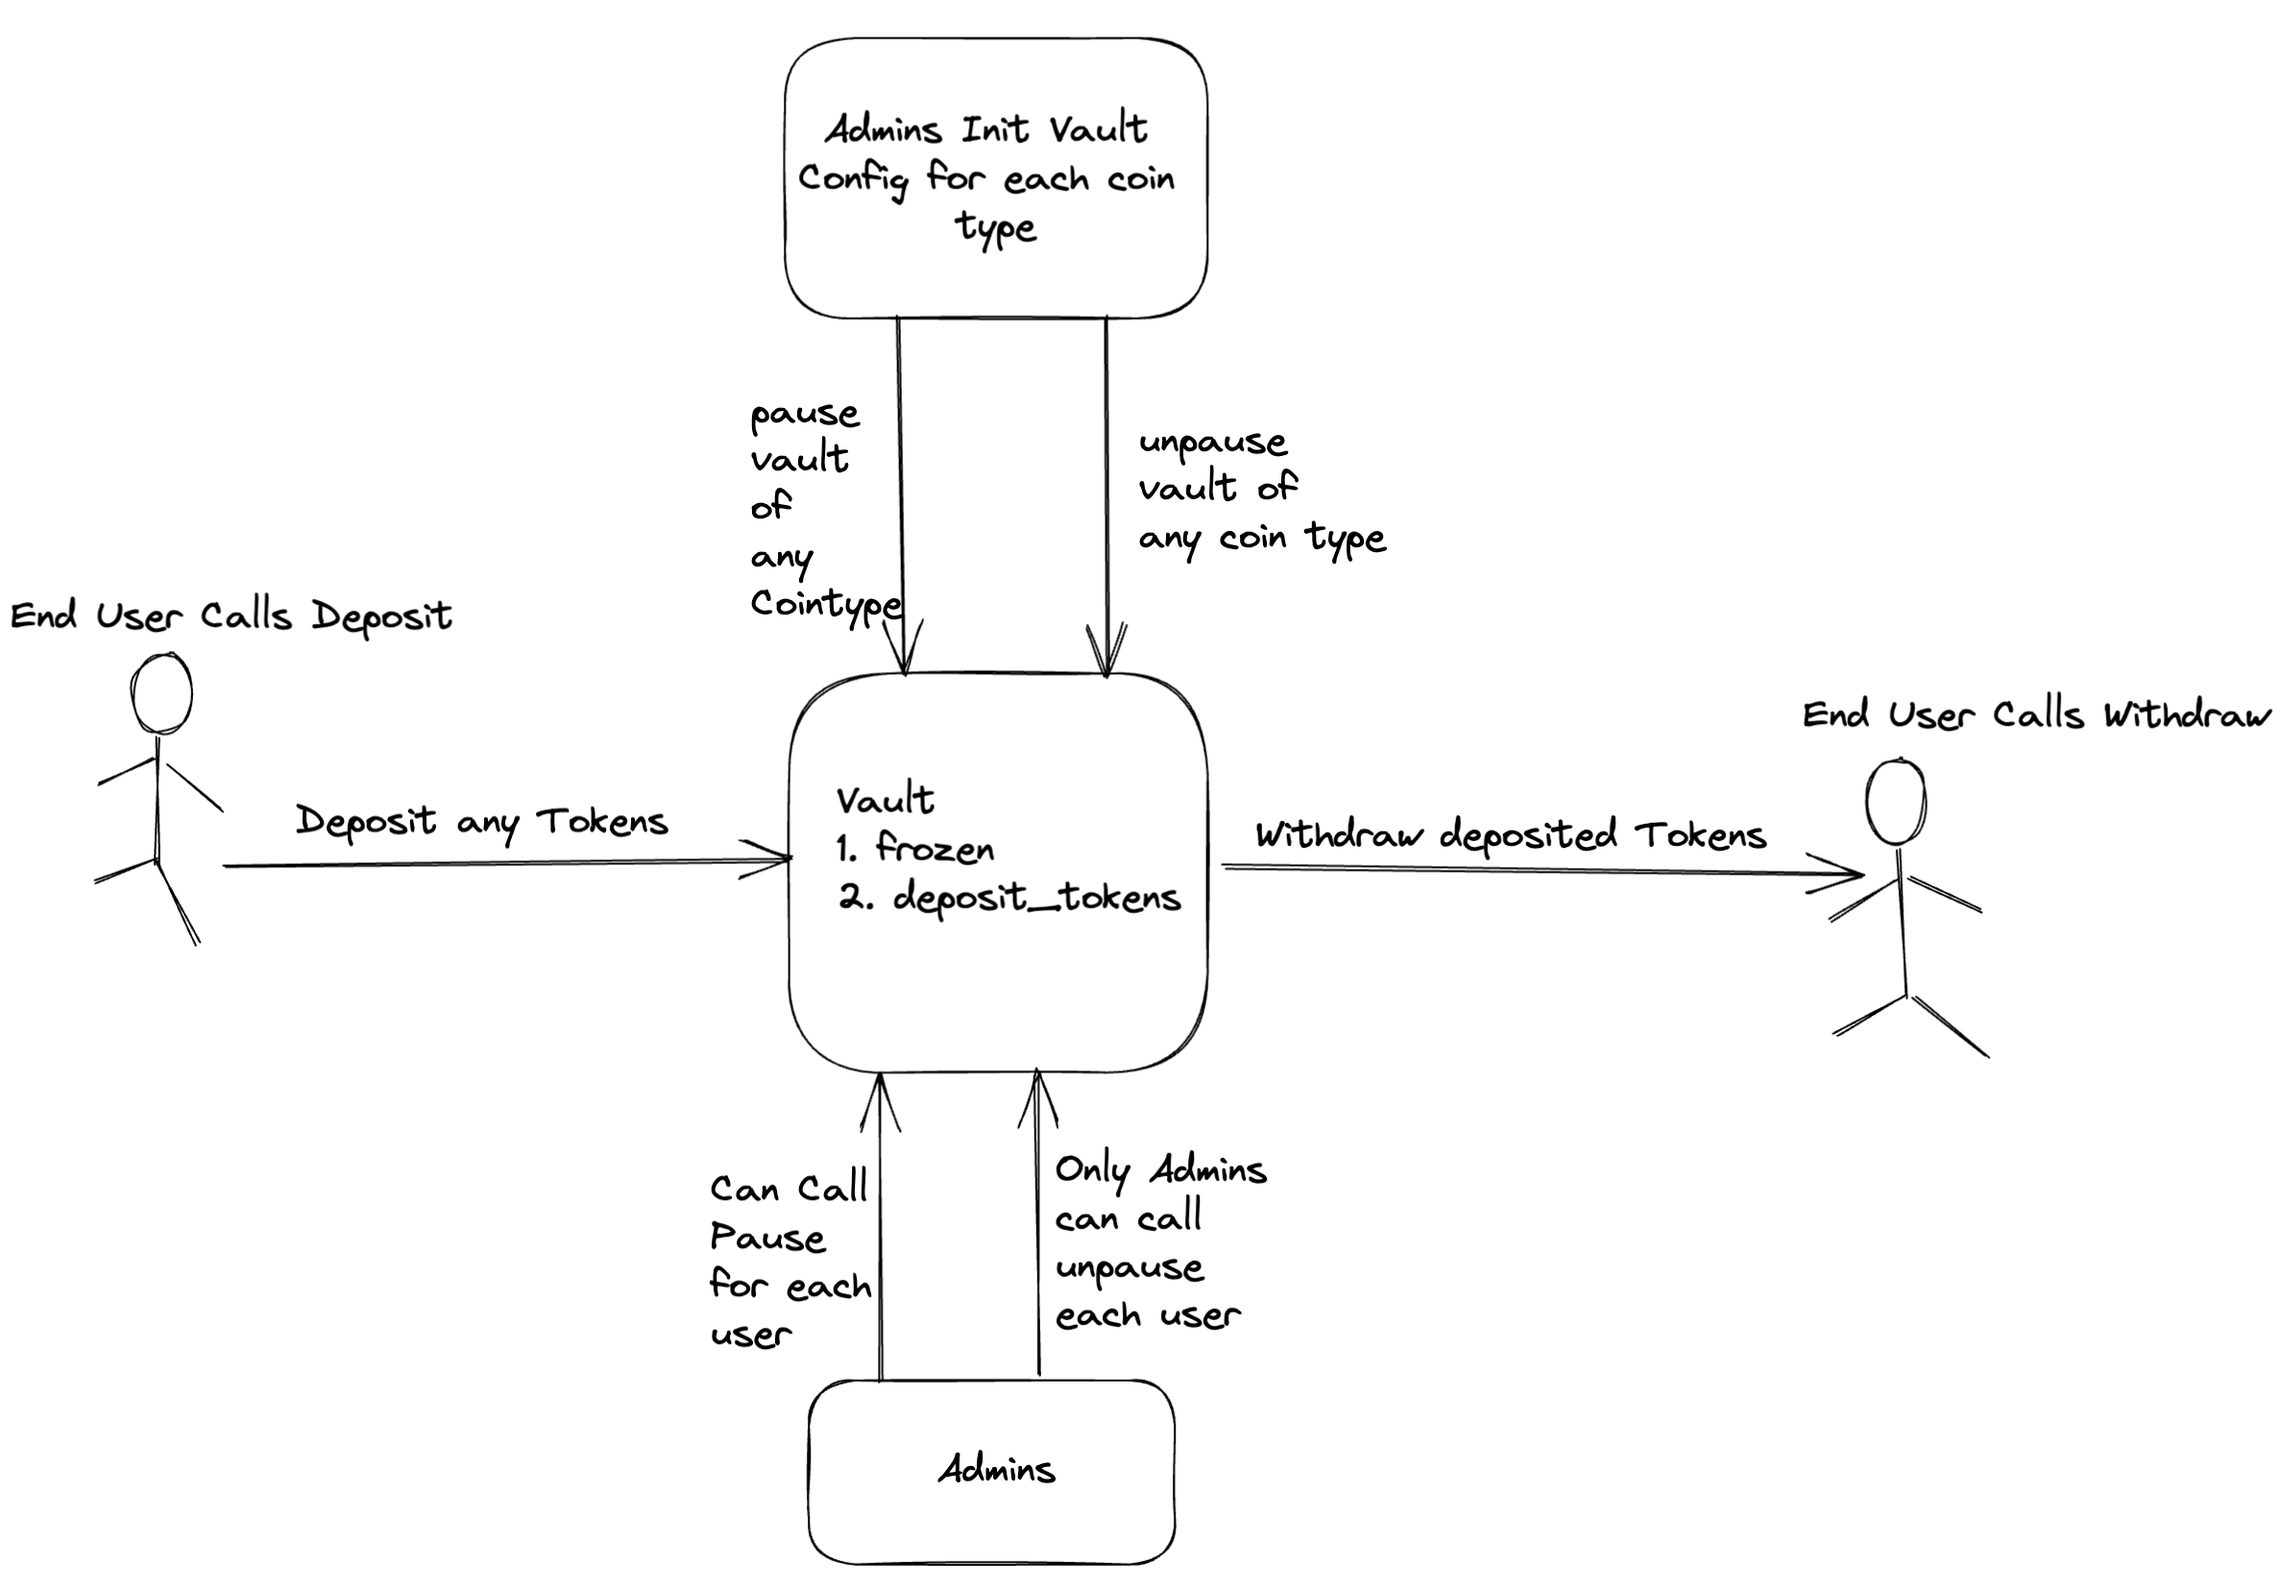
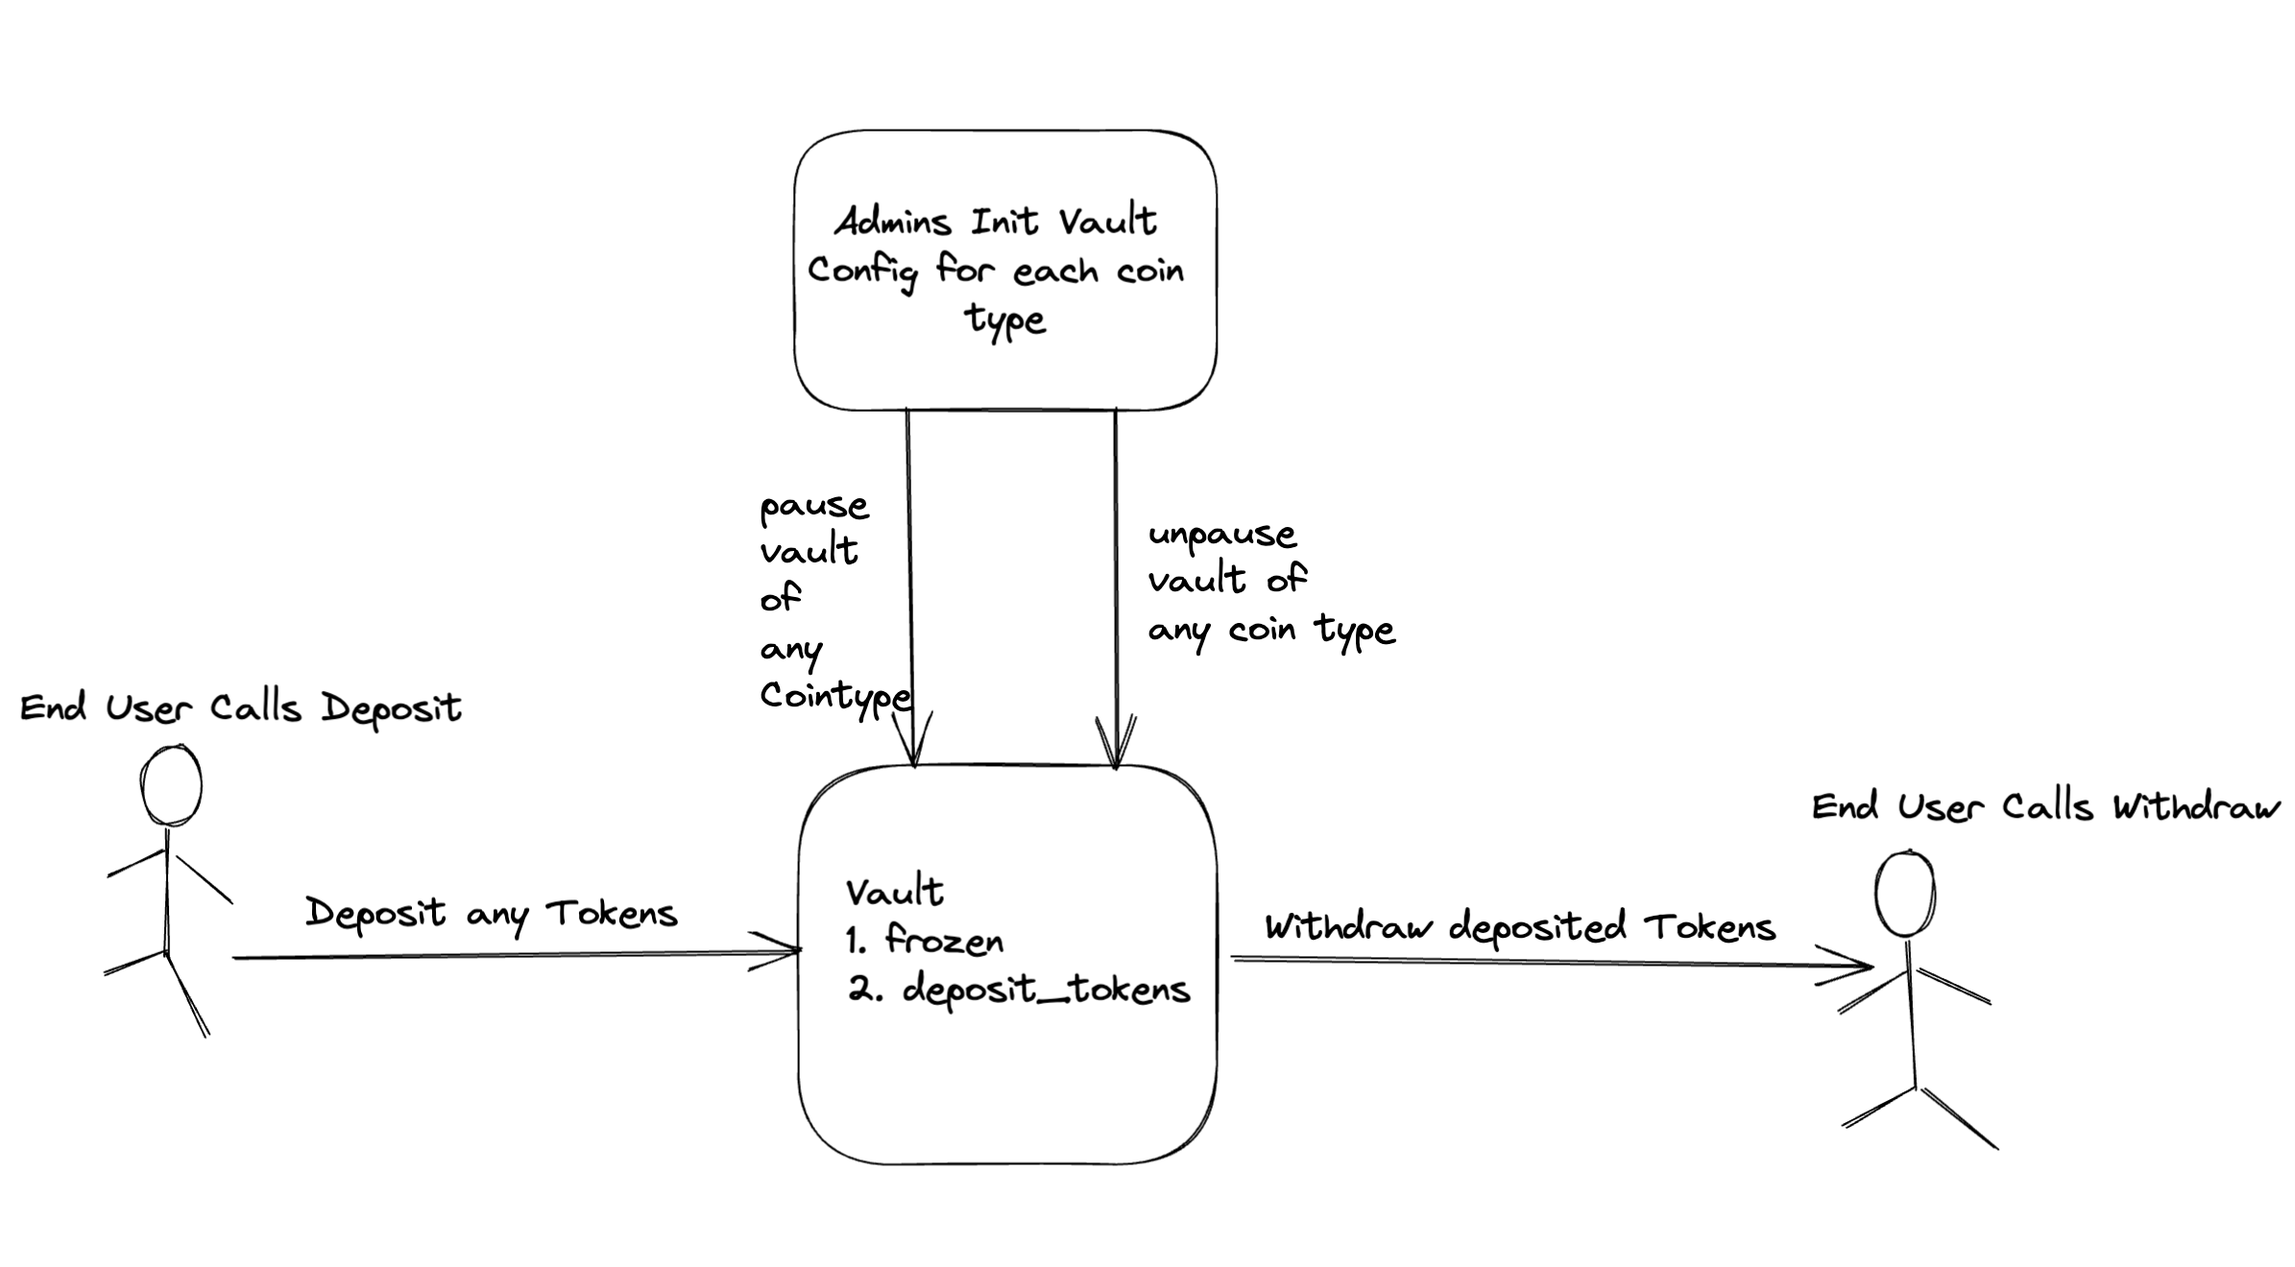
:zap: update readme, remove frozen, withdraw update

diff --git a/README.md b/README.md
@@ -20,7 +20,7 @@ Your can add in module dependency as shown below
     rev = 'develop'
 ```
 
-With that you should be able to access the module instructions in your code.
+With that, you should be able to access the module instructions in your code.
 
 
 ## How to deploy vault module? 
@@ -38,7 +38,7 @@ With that you should be able to access the module instructions in your code.
 ```
 
 
-4. First check if you `.aptos` folder in the module. If not, run the following to instantiate in the module folder an account. 
+4. First check if you `.aptos` folder in the module. If not, run the following to instantiate an account in the module folder . 
 ```bash
     aptos init
 ```
@@ -58,7 +58,7 @@ With that you should be able to access the module instructions in your code.
 ```bash
     aptos move test && aptos move compile
 ```
-9. Fund your aptos wallet account by running the following command
+9. (Optional)Fund your aptos wallet account by running the following command
 ```bash
     aptos account fund-with-faucet --account 0x65a78e4b038409443bdcee8af4d3fdc886e8bb8418c4c83f4a09291d2e06a498
 ```
@@ -113,7 +113,7 @@ We define another struct `VaultConfig` for pausing/unpausing vault for depositin
     }
 ```
 
-If the field `frozen` is set to `true`, then the depositing/withdrawls are  paused for a Vault of CoinType
+If the field `frozen` is set to `true`, then the depositing/withdrawals are  paused for a Vault of CoinType
 
 
 ### Instructions
@@ -197,50 +197,6 @@ This is used by admins to unpause a vault of `CoinType`.
 ```
 
 It accepts these params `signer` (admin) who wants pause an 
-
-
-#### Additional Instructions
-
-In addition to the above, mentioned instructions, admins can pause/unpause deposition or withdrawals to a  `Vault` for each accounts.
-
-
-#### Pause the vault for an account
-
-Only admins can pause deposits/withdrawals of coins for an account
-
-The below instruction is used to pause deposit/withdaw coins for an account
-
-```rust
-    /// public function to pause the vaults deposit/ withdraw
-    /// Should pass the account to be paused
-    public entry fun pause_vault<CoinType>(sender : &signer,pause_account : address) acquires Vault{
-        pause_vault_<CoinType>(sender, pause_account);
-    } 
-```
-
-It accepts these params
-
-1. `signer` (admin) who wants pause an 
-2. `pause_account` address to be paused. 
-
-
-#### Unpause the vault for an account
-
-This is used by admins to unpause a vault for an account for a `CoinType`. 
-
-```rust
-    /// public function to pause the vaults deposit/ withdraw
-    /// Should pass the account to be unpaused
-    public entry fun unpause_vault_for_account<CoinType>(sender : &signer, unpause_account : address) acquires Vault{
-        unpause_vault_for_account_<CoinType>(sender,unpause_account);
-    }
-```
-
-It accepts these params
-
-1. `signer` (admin) who wants pause an 
-2. `unpause_account` address to be paused. 
-
 
 
 ### Test cases
